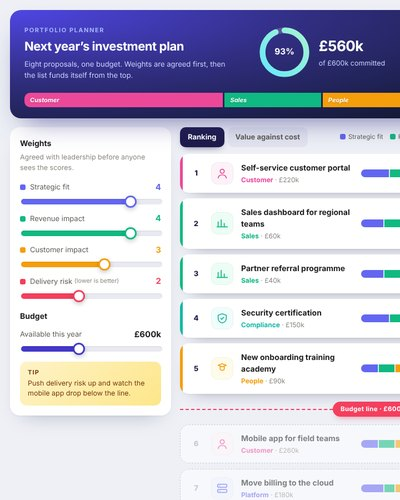
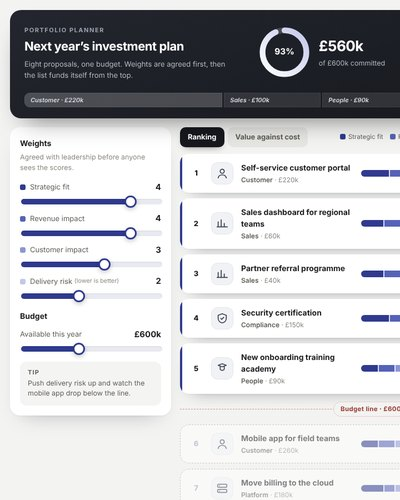
Choosing what to fund: calmer palette, single accent
Claude-Session: https://claude.ai/code/session_01Cv2qjhF7sYGZehr1n9zc2Z

diff --git a/css/p3m.css b/css/p3m.css
@@ -220,28 +220,30 @@
 }
 
 /* Choosing what to fund: a portfolio planner */
-.p3-cv:has(.pf) { background: #eef0f6 !important; }
+.p3-cv:has(.pf) { background: #f3f3f1 !important; }
 .pf { padding: 18px; display: grid; gap: 16px; }
 .pf-hero { position: relative; display: grid; grid-template-columns: minmax(0, 1.4fr) auto auto; gap: 22px 30px; align-items: center; padding: 24px 26px 20px; border-radius: 20px; color: #fff; overflow: hidden;
-  background: radial-gradient(120% 140% at 0% 0%, #4f46e5 0%, #312e81 45%, #0f172a 100%); box-shadow: 0 24px 50px -24px rgba(49, 46, 129, .7); }
-.pf-hero::after { content: ""; position: absolute; right: -60px; top: -80px; width: 280px; height: 280px; border-radius: 50%; background: radial-gradient(circle, rgba(103, 232, 249, .35), transparent 65%); pointer-events: none; }
-.pf-kicker { font-size: 11px; letter-spacing: .14em; text-transform: uppercase; color: #a5b4fc; font-weight: 700; }
+  background: linear-gradient(160deg, #23262e 0%, #16181d 100%); box-shadow: 0 24px 48px -26px rgba(0, 0, 0, .6); }
+.pf-hero::after { content: ""; position: absolute; right: -80px; top: -120px; width: 320px; height: 320px; border-radius: 50%; background: radial-gradient(circle, rgba(255, 255, 255, .07), transparent 65%); pointer-events: none; }
+.pf-kicker { font-size: 11px; letter-spacing: .14em; text-transform: uppercase; color: #9aa0ad; font-weight: 700; }
 .pf-title h3 { margin: 4px 0 6px; font-size: 22px; font-weight: 700; letter-spacing: -.02em; }
-.pf-title p { margin: 0; color: #c7d2fe; font-size: 13px; max-width: 46ch; }
+.pf-title p { margin: 0; color: #b4b8c2; font-size: 13px; max-width: 46ch; }
 .pf-gauge { display: flex; align-items: center; gap: 14px; position: relative; z-index: 1; }
 .pf-ring { width: 96px; height: 96px; }
 .pf-ring circle { transition: stroke-dasharray .45s ease; }
 .pf-ring text { fill: #fff; font: 700 18px -apple-system, "Inter Tight", sans-serif; }
 .pf-gauge b { display: block; font-size: 26px; font-weight: 700; letter-spacing: -.02em; }
-.pf-gauge span { color: #c7d2fe; font-size: 12.5px; }
+.pf-gauge span { color: #b4b8c2; font-size: 12.5px; }
 .pf-hstats { display: grid; grid-template-columns: repeat(3, auto); gap: 6px 24px; position: relative; z-index: 1; }
 .pf-hstats div { display: grid; padding-left: 14px; border-left: 1px solid rgba(255, 255, 255, .16); }
 .pf-hstats b { font-size: 22px; font-weight: 700; letter-spacing: -.02em; }
-.pf-hstats b small { font-size: 13px; color: #a5b4fc; font-weight: 500; }
-.pf-hstats span { color: #c7d2fe; font-size: 12px; }
-.pf-mix { grid-column: 1 / -1; display: flex; gap: 3px; height: 26px; border-radius: 10px; overflow: hidden; position: relative; z-index: 1; }
+.pf-hstats b small { font-size: 13px; color: #9aa0ad; font-weight: 500; }
+.pf-hstats span { color: #b4b8c2; font-size: 12px; }
+.pf-mix { grid-column: 1 / -1; display: flex; gap: 3px; height: 26px; border-radius: 9px; overflow: hidden; position: relative; z-index: 1; }
+.pf-mix i { background: rgba(255, 255, 255, .1); border: 1px solid rgba(255, 255, 255, .08); }
+.pf-mix i:first-child { background: rgba(255, 255, 255, .2); }
 .pf-mix i { display: flex; align-items: center; padding: 0 10px; min-width: 0; transition: flex .4s ease; }
-.pf-mix span { font-size: 11px; font-weight: 700; color: #fff; white-space: nowrap; overflow: hidden; text-overflow: ellipsis; text-shadow: 0 1px 2px rgba(0, 0, 0, .25); }
+.pf-mix span { font-size: 11px; font-weight: 600; color: #d9dce3; white-space: nowrap; overflow: hidden; text-overflow: ellipsis; }
 .pf-body { display: grid; grid-template-columns: 290px minmax(0, 1fr); gap: 16px; align-items: start; }
 .pf-panel { background: #fff; border-radius: 18px; padding: 18px; display: grid; gap: 12px; box-shadow: 0 1px 2px rgba(15, 23, 42, .05), 0 18px 36px -24px rgba(15, 23, 42, .35); }
 .pf-panel h4 { margin: 0; font-size: 14px; font-weight: 700; }
@@ -255,40 +257,40 @@
 .pf input[type="range"] { -webkit-appearance: none; appearance: none; width: 100%; height: 10px; border-radius: 99px; background: linear-gradient(90deg, var(--c) var(--p), #e9e9f1 var(--p)); outline: none; box-shadow: inset 0 1px 2px rgba(0, 0, 0, .08); }
 .pf input[type="range"]::-webkit-slider-thumb { -webkit-appearance: none; width: 22px; height: 22px; border-radius: 50%; background: #fff; border: 3px solid var(--c); box-shadow: 0 3px 8px rgba(0, 0, 0, .22); cursor: pointer; }
 .pf input[type="range"]::-moz-range-thumb { width: 18px; height: 18px; border-radius: 50%; background: #fff; border: 3px solid var(--c); box-shadow: 0 3px 8px rgba(0, 0, 0, .22); cursor: pointer; }
-.pf-tip { margin-top: 4px; padding: 12px 14px; border-radius: 12px; background: linear-gradient(135deg, #fef3c7, #fde68a); color: #78350f; font-size: 12.5px; line-height: 1.45; }
+.pf-tip { margin-top: 4px; padding: 12px 14px; border-radius: 12px; background: #f4f4f2; color: var(--mid3); font-size: 12.5px; line-height: 1.45; }
 .pf-tip b { display: block; font-size: 11px; letter-spacing: .1em; text-transform: uppercase; margin-bottom: 2px; }
 .pf-main { min-width: 0; display: grid; gap: 12px; }
 .pf-tabs { display: flex; flex-wrap: wrap; align-items: center; gap: 6px; }
-.pf-tabs button { padding: 8px 14px; border-radius: 10px; border: 0; background: #e2e5ef; color: var(--mid3); font-size: 13px; font-weight: 650; }
-.pf-tabs button.on { background: #1e1b4b; color: #fff; box-shadow: 0 6px 14px -8px rgba(30, 27, 75, .8); }
+.pf-tabs button { padding: 8px 14px; border-radius: 10px; border: 0; background: #e6e6e3; color: var(--mid3); font-size: 13px; font-weight: 650; }
+.pf-tabs button.on { background: #16181d; color: #fff; box-shadow: 0 6px 14px -8px rgba(0, 0, 0, .6); }
 .pf-legend { margin-left: auto; display: flex; flex-wrap: wrap; gap: 12px; font-size: 11.5px; color: var(--mid3); }
 .pf-legend i { display: inline-block; width: 10px; height: 10px; border-radius: 3px; margin-right: 5px; vertical-align: -1px; }
 .pf-list { list-style: none; margin: 0; padding: 0; display: grid; gap: 10px; }
 .pf-row { display: grid; grid-template-columns: 26px 40px minmax(0, 1.25fr) minmax(110px, 1fr) 58px 104px; gap: 14px; align-items: center; padding: 14px 16px; border-radius: 16px; background: #fff; position: relative; overflow: hidden;
   box-shadow: 0 1px 2px rgba(15, 23, 42, .05), 0 16px 30px -22px rgba(15, 23, 42, .45); transition: transform .2s ease; }
-.pf-row.in::before { content: ""; position: absolute; inset: 0 auto 0 0; width: 5px; background: var(--cc); }
+.pf-row.in::before { content: ""; position: absolute; inset: 0 auto 0 0; width: 4px; background: #2f3a8f; }
 .pf-row.in:hover { transform: translateY(-2px); }
-.pf-row.out { background: rgba(255, 255, 255, .55); box-shadow: none; outline: 1.5px dashed #c9cede; outline-offset: -1.5px; }
+.pf-row.out { background: rgba(255, 255, 255, .5); box-shadow: none; outline: 1px dashed #c9c9c4; outline-offset: -1px; }
 .pf-row.out > * { opacity: .55; }
 .pf-row.out .pf-tag { opacity: 1; }
 .pf-rank { font-weight: 800; color: #94a3b8; font-size: 13px; text-align: center; }
-.pf-row.in .pf-rank { color: #1e1b4b; }
-.pf-ic { display: grid; place-items: center; border-radius: 12px; background: var(--b); color: var(--c); box-shadow: inset 0 0 0 1px rgba(0, 0, 0, .04); }
+.pf-row.in .pf-rank { color: #16181d; }
+.pf-ic { display: grid; place-items: center; border-radius: 12px; background: var(--b); color: var(--c); box-shadow: inset 0 0 0 1px rgba(0, 0, 0, .05); }
 .pf-ic svg { width: 55%; height: 55%; fill: none; stroke: currentColor; stroke-width: 1.9; stroke-linecap: round; stroke-linejoin: round; }
 .pf-name b { display: block; font-weight: 650; font-size: 14px; }
 .pf-name small { color: var(--soft3); font-size: 12px; }
-.pf-name em { font-style: normal; font-weight: 700; }
-.pf-stack { display: flex; height: 14px; border-radius: 99px; background: #edf0f6; overflow: hidden; box-shadow: inset 0 1px 2px rgba(0, 0, 0, .06); }
+.pf-name em { font-style: normal; font-weight: 600; color: var(--mid3); }
+.pf-stack { display: flex; height: 12px; border-radius: 99px; background: #efefec; overflow: hidden; box-shadow: inset 0 1px 2px rgba(0, 0, 0, .06); }
 .pf-stack i { height: 100%; transition: width .4s ease; }
 .pf-stack i + i { box-shadow: inset 2px 0 0 rgba(255, 255, 255, .8); }
 .pf-score { text-align: right; }
-.pf-score b { font-size: 24px; font-weight: 800; letter-spacing: -.03em; color: #1e1b4b; }
+.pf-score b { font-size: 24px; font-weight: 750; letter-spacing: -.03em; color: #16181d; }
 .pf-score small { color: var(--soft3); font-size: 11px; }
-.pf-tag { justify-self: end; padding: 5px 11px; border-radius: 99px; font-size: 11.5px; font-weight: 700; color: #fff; background: linear-gradient(135deg, #10b981, #059669); box-shadow: 0 6px 12px -8px rgba(5, 150, 105, .9); white-space: nowrap; }
-.pf-row.out .pf-tag { background: #e2e5ef; color: #64748b; box-shadow: none; }
+.pf-tag { justify-self: end; padding: 5px 11px; border-radius: 99px; font-size: 11.5px; font-weight: 650; color: #1f6b45; background: #e6f2eb; white-space: nowrap; }
+.pf-row.out .pf-tag { background: #ececea; color: #77756f; }
 .pf-line { position: relative; display: flex; justify-content: center; padding: 4px 0; }
-.pf-line::before { content: ""; position: absolute; left: 0; right: 0; top: 50%; border-top: 2px dashed #f43f5e; }
-.pf-line span { position: relative; padding: 5px 14px; border-radius: 99px; background: #f43f5e; color: #fff; font-size: 11.5px; font-weight: 700; letter-spacing: .03em; box-shadow: 0 6px 14px -8px rgba(244, 63, 94, .9); }
+.pf-line::before { content: ""; position: absolute; left: 0; right: 0; top: 50%; border-top: 1.5px dashed #b9473f; opacity: .6; }
+.pf-line span { position: relative; padding: 4px 12px; border-radius: 99px; background: #f3f3f1; color: #9b3b34; font-size: 11.5px; font-weight: 650; letter-spacing: .03em; border: 1px solid #e3cfcc; }
 .pf-mcard { background: #fff; border-radius: 18px; padding: 16px 16px 12px; box-shadow: 0 1px 2px rgba(15, 23, 42, .05), 0 18px 36px -24px rgba(15, 23, 42, .35); }
 .pf-matrix { width: 100%; display: block; }
 .pf-matrix .q { font: 700 11px -apple-system, "Inter Tight", sans-serif; letter-spacing: .08em; text-transform: uppercase; fill: #64748b; }

diff --git a/js/p3m.js b/js/p3m.js
@@ -156,13 +156,13 @@
   };
 
   ART.prioritise = function () {
-    const CRIT = [["fit", "Strategic fit", "#6366f1"], ["rev", "Revenue impact", "#10b981"], ["cust", "Customer impact", "#f59e0b"], ["risk", "Delivery risk", "#f43f5e"]];
+    const CRIT = [["fit", "Strategic fit", "#2f3a8f"], ["rev", "Revenue impact", "#5562b8"], ["cust", "Customer impact", "#8d96d4"], ["risk", "Delivery risk", "#c3c8ea"]];
     const CAT = {
-      Customer: ["#ec4899", "#fdf2f8", '<path d="M12 12a4 4 0 1 0 0-8 4 4 0 0 0 0 8zM4 21c.8-4 4-6 8-6s7.2 2 8 6"/>'],
-      Platform: ["#6366f1", "#eef2ff", '<rect x="3" y="4" width="18" height="6" rx="2"/><rect x="3" y="14" width="18" height="6" rx="2"/><path d="M7 7h.01M7 17h.01"/>'],
-      Sales: ["#10b981", "#ecfdf5", '<path d="M4 19V9M10 19V5M16 19v-7M22 19H2"/>'],
-      People: ["#f59e0b", "#fffbeb", '<path d="M4 6l8-3 8 3-8 3zM8 8v5c0 1.5 2 3 4 3s4-1.5 4-3V8"/>'],
-      Compliance: ["#14b8a6", "#f0fdfa", '<path d="M12 3l8 3v6c0 4.5-3.4 8-8 9-4.6-1-8-4.5-8-9V6z"/><path d="M9 12l2 2 4-4"/>'],
+      Customer: ["#3b4150", "#f1f2f5", '<path d="M12 12a4 4 0 1 0 0-8 4 4 0 0 0 0 8zM4 21c.8-4 4-6 8-6s7.2 2 8 6"/>'],
+      Platform: ["#3b4150", "#f1f2f5", '<rect x="3" y="4" width="18" height="6" rx="2"/><rect x="3" y="14" width="18" height="6" rx="2"/><path d="M7 7h.01M7 17h.01"/>'],
+      Sales: ["#3b4150", "#f1f2f5", '<path d="M4 19V9M10 19V5M16 19v-7M22 19H2"/>'],
+      People: ["#3b4150", "#f1f2f5", '<path d="M4 6l8-3 8 3-8 3zM8 8v5c0 1.5 2 3 4 3s4-1.5 4-3V8"/>'],
+      Compliance: ["#3b4150", "#f1f2f5", '<path d="M12 3l8 3v6c0 4.5-3.4 8-8 9-4.6-1-8-4.5-8-9V6z"/><path d="M9 12l2 2 4-4"/>'],
     };
     const W = { fit: 4, rev: 4, cust: 3, risk: 2 };
     let budget = 600, view = "rank";
@@ -183,20 +183,20 @@
     }
     function ring(used, total) {
       const r = 46, C = 2 * Math.PI * r, f = Math.min(1, used / total);
-      return `<svg class="pf-ring" viewBox="0 0 112 112" aria-hidden="true"><circle cx="56" cy="56" r="${r}" stroke="rgba(255,255,255,.18)" stroke-width="12" fill="none"/><circle cx="56" cy="56" r="${r}" stroke="url(#pfg)" stroke-width="12" fill="none" stroke-linecap="round" stroke-dasharray="${C * f} ${C}" transform="rotate(-90 56 56)"/><defs><linearGradient id="pfg" x1="0" x2="1" y1="0" y2="1"><stop offset="0" stop-color="#67e8f9"/><stop offset="1" stop-color="#a7f3d0"/></linearGradient></defs><text x="56" y="61" text-anchor="middle">${Math.round(f * 100)}%</text></svg>`;
+      return `<svg class="pf-ring" viewBox="0 0 112 112" aria-hidden="true"><circle cx="56" cy="56" r="${r}" stroke="rgba(255,255,255,.18)" stroke-width="12" fill="none"/><circle cx="56" cy="56" r="${r}" stroke="url(#pfg)" stroke-width="12" fill="none" stroke-linecap="round" stroke-dasharray="${C * f} ${C}" transform="rotate(-90 56 56)"/><defs><linearGradient id="pfg" x1="0" x2="1" y1="0" y2="1"><stop offset="0" stop-color="#ffffff"/><stop offset="1" stop-color="#c3c8ea"/></linearGradient></defs><text x="56" y="61" text-anchor="middle">${Math.round(f * 100)}%</text></svg>`;
     }
     function matrix(ranked) {
       const Wd = 640, Hd = 330, L = 44, R = 16, T = 16, B = 34;
       const x = (c) => L + (c / 300) * (Wd - L - R), y = (s) => T + (1 - (s - 30) / 70) * (Hd - T - B);
       const mx = x(150), my = y(65);
-      let g = `<rect x="${L}" y="${T}" width="${mx - L}" height="${my - T}" fill="#ecfdf5"/><rect x="${mx}" y="${T}" width="${Wd - R - mx}" height="${my - T}" fill="#eef2ff"/><rect x="${L}" y="${my}" width="${mx - L}" height="${Hd - B - my}" fill="#f8fafc"/><rect x="${mx}" y="${my}" width="${Wd - R - mx}" height="${Hd - B - my}" fill="#fff1f2"/>`;
+      let g = `<rect x="${L}" y="${T}" width="${mx - L}" height="${my - T}" fill="#f1f3f9"/><rect x="${mx}" y="${T}" width="${Wd - R - mx}" height="${my - T}" fill="#f6f6f4"/><rect x="${L}" y="${my}" width="${mx - L}" height="${Hd - B - my}" fill="#f9f9f8"/><rect x="${mx}" y="${my}" width="${Wd - R - mx}" height="${Hd - B - my}" fill="#f6f6f4"/>`;
       g += `<text class="q" x="${L + 10}" y="${T + 20}">Quick wins</text><text class="q" x="${Wd - R - 10}" y="${T + 20}" text-anchor="end">Big bets</text><text class="q" x="${L + 10}" y="${Hd - B - 10}">Fill-ins</text><text class="q" x="${Wd - R - 10}" y="${Hd - B - 10}" text-anchor="end">Think twice</text>`;
       [0, 100, 200, 300].forEach((c) => { g += `<text class="ax" x="${x(c)}" y="${Hd - 12}" text-anchor="middle">£${c}k</text>`; });
       [40, 60, 80, 100].forEach((s) => { g += `<text class="ax" x="${L - 8}" y="${y(s) + 4}" text-anchor="end">${s}</text>`; });
       g += `<text class="ax" x="${(L + Wd) / 2}" y="${Hd}" text-anchor="middle">Cost</text>`;
       const dots = ranked.slice().sort((a, b) => b.c - a.c).map((r) => {
         const col = CAT[r.tag][0], rad = 12 + r.c / 18;
-        return `<g class="pf-dot ${r.in ? "in" : "out"}"><circle cx="${x(r.c)}" cy="${y(r.sc)}" r="${rad}" fill="${r.in ? col : "#fff"}" fill-opacity="${r.in ? 0.88 : 1}" stroke="${col}" stroke-width="${r.in ? 3 : 2}" ${r.in ? "" : 'stroke-dasharray="4 3"'}><title>${esc(r.n)}: score ${r.sc}, ${money(r.c)}</title></circle><text x="${x(r.c)}" y="${y(r.sc) - rad - 6}" text-anchor="middle">${esc(r.short)}</text></g>`;
+        return `<g class="pf-dot ${r.in ? "in" : "out"}"><circle cx="${x(r.c)}" cy="${y(r.sc)}" r="${rad}" fill="${r.in ? "#2f3a8f" : "#fff"}" fill-opacity="${r.in ? 0.85 : 1}" stroke="${r.in ? "#2f3a8f" : "#a3a8b8"}" stroke-width="${r.in ? 3 : 2}" ${r.in ? "" : 'stroke-dasharray="4 3"'}><title>${esc(r.n)}: score ${r.sc}, ${money(r.c)}</title></circle><text x="${x(r.c)}" y="${y(r.sc) - rad - 6}" text-anchor="middle">${esc(r.short)}</text></g>`;
       }).join("");
       return `<svg class="pf-matrix" viewBox="0 0 ${Wd} ${Hd + 6}" role="img" aria-label="Value against cost">${g}${dots}</svg>`;
     }
@@ -217,23 +217,23 @@
     <div class="pf-title"><span class="pf-kicker">Portfolio planner</span><h3>Next year’s investment plan</h3><p>Eight proposals, one budget. Weights are agreed first, then the list funds itself from the top.</p></div>
     <div class="pf-gauge">${ring(used, budget)}<div><b>${money(used)}</b><span>of ${money(budget)} committed</span></div></div>
     <div class="pf-hstats"><div><b>${funded.length}<small>/${P.length}</small></b><span>funded</span></div><div><b>${avg}</b><span>average score</span></div><div><b>${money(budget - used)}</b><span>left over</span></div></div>
-    <div class="pf-mix" title="How the funded budget splits by area">${byCat.map(([k, v]) => `<i style="flex:${v};background:${CAT[k][0]}"><span>${k}</span></i>`).join("")}</div>
+    <div class="pf-mix" title="How the funded budget splits by area">${byCat.map(([k, v]) => `<i style="flex:${v}"><span>${k} · ${money(v)}</span></i>`).join("")}</div>
   </header>
   <div class="pf-body">
     <aside class="pf-panel">
       <h4>Weights</h4><p>Agreed with leadership before anyone sees the scores.</p>
-      ${CRIT.map(([k, n, c]) => `<label class="pf-sl"><span><i style="background:${c}"></i>${n}${k === "risk" ? "&nbsp;<small>(lower is better)</small>" : ""}<b style="color:${c}">${W[k]}</b></span><input type="range" min="0" max="5" step="1" value="${W[k]}" data-k="${k}" style="--c:${c};--p:${W[k] * 20}%"></label>`).join("")}
+      ${CRIT.map(([k, n, c]) => `<label class="pf-sl"><span><i style="background:${c}"></i>${n}${k === "risk" ? "&nbsp;<small>(lower is better)</small>" : ""}<b>${W[k]}</b></span><input type="range" min="0" max="5" step="1" value="${W[k]}" data-k="${k}" style="--c:#2f3a8f;--p:${W[k] * 20}%"></label>`).join("")}
       <h4 class="pf-mt">Budget</h4>
-      <label class="pf-sl"><span>Available this year<b>${money(budget)}</b></span><input type="range" min="200" max="1200" step="20" value="${budget}" data-b style="--c:#4338ca;--p:${((budget - 200) / 1000) * 100}%"></label>
+      <label class="pf-sl"><span>Available this year<b>${money(budget)}</b></span><input type="range" min="200" max="1200" step="20" value="${budget}" data-b style="--c:#2f3a8f;--p:${((budget - 200) / 1000) * 100}%"></label>
       <div class="pf-tip"><b>Tip</b> Push delivery risk up and watch the mobile app drop below the line.</div>
     </aside>
     <section class="pf-main">
       <div class="pf-tabs"><button type="button" data-v="rank" class="${view === "rank" ? "on" : ""}">Ranking</button><button type="button" data-v="matrix" class="${view === "matrix" ? "on" : ""}">Value against cost</button>
         <span class="pf-legend">${CRIT.map(([, n, c]) => `<span><i style="background:${c}"></i>${n}</span>`).join("")}</span></div>
       ${view === "matrix" ? `<div class="pf-mcard">${matrix(ranked)}<p class="pf-cap">Bubble size is cost. Filled bubbles are funded; dashed ones fall below the budget line.</p></div>` : `
-      <ol class="pf-list">${ranked.map((r, i) => `${i === lineAt ? `<li class="pf-line"><span>Budget line · ${money(budget)}</span></li>` : ""}<li class="pf-row ${r.in ? "in" : "out"}" style="--cc:${CAT[r.tag][0]}">
+      <ol class="pf-list">${ranked.map((r, i) => `${i === lineAt ? `<li class="pf-line"><span>Budget line · ${money(budget)}</span></li>` : ""}<li class="pf-row ${r.in ? "in" : "out"}" >
         <span class="pf-rank">${i + 1}</span>${icon(r.tag, 40)}
-        <span class="pf-name"><b>${esc(r.n)}</b><small><em style="color:${CAT[r.tag][0]}">${r.tag}</em> · ${money(r.c)}</small></span>
+        <span class="pf-name"><b>${esc(r.n)}</b><small><em>${r.tag}</em> · ${money(r.c)}</small></span>
         <span class="pf-stack">${r.pt.map((x) => `<i style="width:${x.v}%;background:${x.c}"></i>`).join("")}</span>
         <span class="pf-score"><b>${r.sc}</b><small>/100</small></span>
         <span class="pf-tag">${r.in ? (r.late ? "Funded · fits" : "Funded") : "Not this year"}</span></li>`).join("")}</ol>`}

diff --git a/p3mo/programmes/index.html b/p3mo/programmes/index.html
@@ -14,7 +14,7 @@
   <link rel="preload" href="../../assets/fonts/montserrat.woff2" as="font" type="font/woff2" crossorigin>
   <link rel="stylesheet" href="../../css/base.css?v=20261121p">
   <link rel="stylesheet" href="../../css/extract.css?v=20261121g">
-  <link rel="stylesheet" href="../../css/folder.css?v=20261121w">
+  <link rel="stylesheet" href="../../css/folder.css?v=20261121x">
 </head>
 <body data-folder="programmes">
   <header class="top">
@@ -42,9 +42,9 @@
     <a href="../../notes/">Notes</a>
   </footer>
 
-  <script src="../../js/data.js?v=20261121w"></script>
-  <script src="../../js/core.js?v=20261121w"></script>
-  <script src="../../js/folder.js?v=20261121w"></script>
+  <script src="../../js/data.js?v=20261121x"></script>
+  <script src="../../js/core.js?v=20261121x"></script>
+  <script src="../../js/folder.js?v=20261121x"></script>
   <script src="../../js/foot.js?v=20261121p" defer></script>
 </body>
 </html>

diff --git a/p3mo/portfolio/index.html b/p3mo/portfolio/index.html
@@ -14,7 +14,7 @@
   <link rel="preload" href="../../assets/fonts/montserrat.woff2" as="font" type="font/woff2" crossorigin>
   <link rel="stylesheet" href="../../css/base.css?v=20261121p">
   <link rel="stylesheet" href="../../css/extract.css?v=20261121g">
-  <link rel="stylesheet" href="../../css/folder.css?v=20261121w">
+  <link rel="stylesheet" href="../../css/folder.css?v=20261121x">
 </head>
 <body data-folder="portfolio">
   <header class="top">
@@ -42,9 +42,9 @@
     <a href="../../notes/">Notes</a>
   </footer>
 
-  <script src="../../js/data.js?v=20261121w"></script>
-  <script src="../../js/core.js?v=20261121w"></script>
-  <script src="../../js/folder.js?v=20261121w"></script>
+  <script src="../../js/data.js?v=20261121x"></script>
+  <script src="../../js/core.js?v=20261121x"></script>
+  <script src="../../js/folder.js?v=20261121x"></script>
   <script src="../../js/foot.js?v=20261121p" defer></script>
 </body>
 </html>

diff --git a/p3mo/projects/index.html b/p3mo/projects/index.html
@@ -14,7 +14,7 @@
   <link rel="preload" href="../../assets/fonts/montserrat.woff2" as="font" type="font/woff2" crossorigin>
   <link rel="stylesheet" href="../../css/base.css?v=20261121p">
   <link rel="stylesheet" href="../../css/extract.css?v=20261121g">
-  <link rel="stylesheet" href="../../css/folder.css?v=20261121w">
+  <link rel="stylesheet" href="../../css/folder.css?v=20261121x">
 </head>
 <body data-folder="projects">
   <header class="top">
@@ -42,9 +42,9 @@
     <a href="../../notes/">Notes</a>
   </footer>
 
-  <script src="../../js/data.js?v=20261121w"></script>
-  <script src="../../js/core.js?v=20261121w"></script>
-  <script src="../../js/folder.js?v=20261121w"></script>
+  <script src="../../js/data.js?v=20261121x"></script>
+  <script src="../../js/core.js?v=20261121x"></script>
+  <script src="../../js/folder.js?v=20261121x"></script>
   <script src="../../js/foot.js?v=20261121p" defer></script>
 </body>
 </html>

diff --git a/p3mo/index.html b/p3mo/index.html
@@ -14,7 +14,7 @@
   <link rel="preload" href="../assets/fonts/montserrat.woff2" as="font" type="font/woff2" crossorigin>
   <link rel="stylesheet" href="../css/base.css?v=20261121p">
   <link rel="stylesheet" href="../css/extract.css?v=20261121g">
-  <link rel="stylesheet" href="../css/folder.css?v=20261121w">
+  <link rel="stylesheet" href="../css/folder.css?v=20261121x">
 </head>
 <body data-folder="p3mo">
   <header class="top">
@@ -42,9 +42,9 @@
     <a href="../notes/">Notes</a>
   </footer>
 
-  <script src="../js/data.js?v=20261121w"></script>
-  <script src="../js/core.js?v=20261121w"></script>
-  <script src="../js/folder.js?v=20261121w"></script>
+  <script src="../js/data.js?v=20261121x"></script>
+  <script src="../js/core.js?v=20261121x"></script>
+  <script src="../js/folder.js?v=20261121x"></script>
   <script src="../js/foot.js?v=20261121p" defer></script>
 </body>
 </html>

diff --git a/p3mo/portfolio/choosing-what-to-fund/index.html b/p3mo/portfolio/choosing-what-to-fund/index.html
@@ -15,7 +15,7 @@
   <link rel="stylesheet" href="../../../css/base.css?v=20261121p">
   <link rel="stylesheet" href="../../../css/principle.css?v=20261121p">
   <link rel="stylesheet" href="../../../css/product.css?v=20261121u">
-  <link rel="stylesheet" href="../../../css/p3m.css?v=20261121w">
+  <link rel="stylesheet" href="../../../css/p3m.css?v=20261121x">
 </head>
 <body>
   <header class="top">
@@ -76,7 +76,7 @@
   </footer>
 
   <script src="../../../js/fullscreen.js?v=20261121m"></script>
-  <script src="../../../js/p3m.js?v=20261121w"></script>
+  <script src="../../../js/p3m.js?v=20261121x"></script>
   <script>
     (function () {
       var page = document.querySelector("[data-reveal]");

diff --git a/p3mo/portfolio/what-counts-as-an-update/index.html b/p3mo/portfolio/what-counts-as-an-update/index.html
@@ -15,7 +15,7 @@
   <link rel="stylesheet" href="../../../css/base.css?v=20261121p">
   <link rel="stylesheet" href="../../../css/principle.css?v=20261121p">
   <link rel="stylesheet" href="../../../css/product.css?v=20261121u">
-  <link rel="stylesheet" href="../../../css/p3m.css?v=20261121w">
+  <link rel="stylesheet" href="../../../css/p3m.css?v=20261121x">
 </head>
 <body>
   <header class="top">
@@ -77,7 +77,7 @@
   </footer>
 
   <script src="../../../js/fullscreen.js?v=20261121m"></script>
-  <script src="../../../js/p3m.js?v=20261121w"></script>
+  <script src="../../../js/p3m.js?v=20261121x"></script>
   <script>
     (function () {
       var page = document.querySelector("[data-reveal]");

diff --git a/p3mo/programmes/ninety-day-commitments/index.html b/p3mo/programmes/ninety-day-commitments/index.html
@@ -15,7 +15,7 @@
   <link rel="stylesheet" href="../../../css/base.css?v=20261121p">
   <link rel="stylesheet" href="../../../css/principle.css?v=20261121p">
   <link rel="stylesheet" href="../../../css/product.css?v=20261121u">
-  <link rel="stylesheet" href="../../../css/p3m.css?v=20261121w">
+  <link rel="stylesheet" href="../../../css/p3m.css?v=20261121x">
 </head>
 <body>
   <header class="top">
@@ -76,7 +76,7 @@
   </footer>
 
   <script src="../../../js/fullscreen.js?v=20261121m"></script>
-  <script src="../../../js/p3m.js?v=20261121w"></script>
+  <script src="../../../js/p3m.js?v=20261121x"></script>
   <script>
     (function () {
       var page = document.querySelector("[data-reveal]");

diff --git a/p3mo/programmes/operating-rhythm/index.html b/p3mo/programmes/operating-rhythm/index.html
@@ -15,7 +15,7 @@
   <link rel="stylesheet" href="../../../css/base.css?v=20261121p">
   <link rel="stylesheet" href="../../../css/principle.css?v=20261121p">
   <link rel="stylesheet" href="../../../css/product.css?v=20261121u">
-  <link rel="stylesheet" href="../../../css/p3m.css?v=20261121w">
+  <link rel="stylesheet" href="../../../css/p3m.css?v=20261121x">
 </head>
 <body>
   <header class="top">
@@ -77,7 +77,7 @@
   </footer>
 
   <script src="../../../js/fullscreen.js?v=20261121m"></script>
-  <script src="../../../js/p3m.js?v=20261121w"></script>
+  <script src="../../../js/p3m.js?v=20261121x"></script>
   <script>
     (function () {
       var page = document.querySelector("[data-reveal]");

diff --git a/p3mo/programmes/who-does-what/index.html b/p3mo/programmes/who-does-what/index.html
@@ -15,7 +15,7 @@
   <link rel="stylesheet" href="../../../css/base.css?v=20261121p">
   <link rel="stylesheet" href="../../../css/principle.css?v=20261121p">
   <link rel="stylesheet" href="../../../css/product.css?v=20261121u">
-  <link rel="stylesheet" href="../../../css/p3m.css?v=20261121w">
+  <link rel="stylesheet" href="../../../css/p3m.css?v=20261121x">
 </head>
 <body>
   <header class="top">
@@ -76,7 +76,7 @@
   </footer>
 
   <script src="../../../js/fullscreen.js?v=20261121m"></script>
-  <script src="../../../js/p3m.js?v=20261121w"></script>
+  <script src="../../../js/p3m.js?v=20261121x"></script>
   <script>
     (function () {
       var page = document.querySelector("[data-reveal]");

diff --git a/p3mo/projects/after-action-review/index.html b/p3mo/projects/after-action-review/index.html
@@ -15,7 +15,7 @@
   <link rel="stylesheet" href="../../../css/base.css?v=20261121p">
   <link rel="stylesheet" href="../../../css/principle.css?v=20261121p">
   <link rel="stylesheet" href="../../../css/product.css?v=20261121u">
-  <link rel="stylesheet" href="../../../css/p3m.css?v=20261121w">
+  <link rel="stylesheet" href="../../../css/p3m.css?v=20261121x">
 </head>
 <body>
   <header class="top">
@@ -76,7 +76,7 @@
   </footer>
 
   <script src="../../../js/fullscreen.js?v=20261121m"></script>
-  <script src="../../../js/p3m.js?v=20261121w"></script>
+  <script src="../../../js/p3m.js?v=20261121x"></script>
   <script>
     (function () {
       var page = document.querySelector("[data-reveal]");
